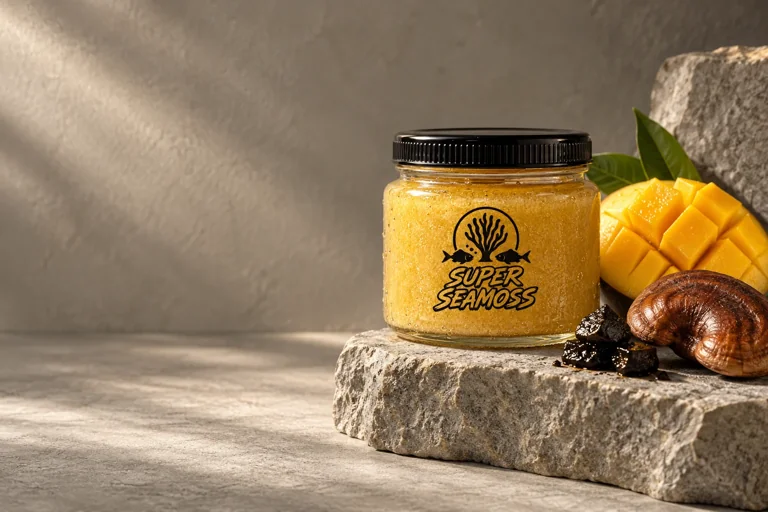
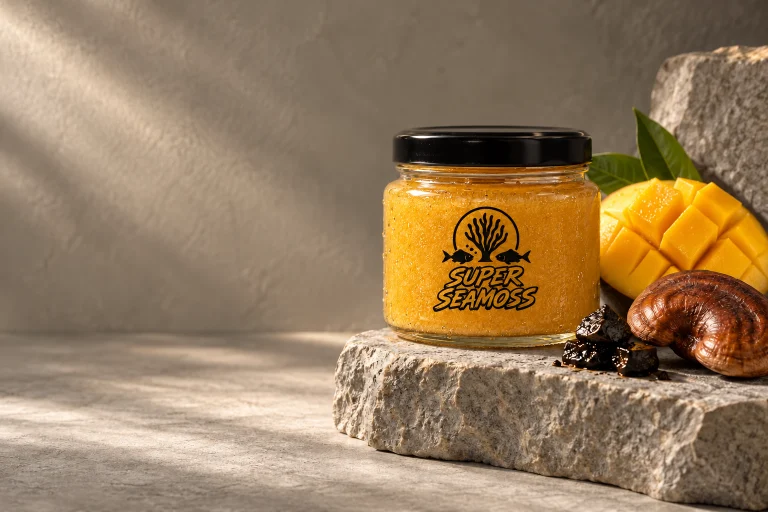
Fix Seamoss ingredient framing and King Strength lid

diff --git a/superseamoss/index.html b/superseamoss/index.html
@@ -25,8 +25,8 @@ setTimeout(() => {
   document.dispatchEvent(new Event('seamoss:load-timeout'));
 }, 6500);
 </script>
-<script src="loading.js?v=mobile2" defer></script><script src="site.js?v=blend-names1" defer></script><script src="jar-scroll.js?v=mobile2" defer></script><script type="module" src="order-options.js?v=image-picker1"></script>
-<link rel="stylesheet" href="blend-preview.css?v=ingredient-preview2">
+<script src="loading.js?v=mobile2" defer></script><script src="site.js?v=feedback-lid2" defer></script><script src="jar-scroll.js?v=mobile2" defer></script><script type="module" src="order-options.js?v=feedback-fit2"></script>
+<link rel="stylesheet" href="blend-preview.css?v=feedback-fit2">
 <link rel="stylesheet" href="blend-picker.css?v=image-picker1">
 </head>
 <body>
@@ -70,7 +70,7 @@ setTimeout(() => {
 <span class="blend-scene-signature" aria-hidden="true">YOUR DAY.<br>YOUR BLEND.</span>
 </article>
 <article class="blend-panel" id="panel-king-strength" aria-labelledby="heading-king-strength">
-<img class="blend-scene" src="assets/blends/king-strength.webp" srcset="assets/blends/king-strength-768.webp 768w, assets/blends/king-strength.webp 1536w" sizes="100vw" alt="Mango sea moss jar with fresh mango and reishi on sculpted stone" width="1536" height="1024" loading="lazy" decoding="async">
+<img class="blend-scene" src="assets/blends/king-strength.webp?v=smooth-lid2" srcset="assets/blends/king-strength-768.webp?v=smooth-lid2 768w, assets/blends/king-strength.webp?v=smooth-lid2 1536w" sizes="100vw" alt="Mango sea moss jar with fresh mango and reishi on sculpted stone" width="1536" height="1024" loading="lazy" decoding="async">
 <div class="blend-shade" aria-hidden="true"></div>
 <div class="blend-panel-copy">
 <p class="blend-focus">Energy &amp; stamina</p>
@@ -167,7 +167,7 @@ setTimeout(() => {
 </div>
 <fieldset class="order-choice order-purchase"><legend>Choose your routine</legend><div class="order-choice-row"><label><input type="radio" name="purchase-type" value="one-off" checked><span>One-off order</span></label><label><input type="radio" name="purchase-type" value="subscription"><span>Subscribe &amp; Save<small>10% off · free delivery · cancel anytime</small></span></label></div></fieldset>
 <div class="order-summary" aria-live="polite" aria-atomic="true"><p id="order-selection">1 × 330ml jar</p><p id="order-blend-summary">Manuka Glow</p><div class="order-price"><s id="order-regular-price" hidden></s><strong id="order-product-price">£25</strong><span id="order-price-unit">for your jars</span></div><p class="order-price-note" id="order-bundle-saving" hidden></p><p class="order-price-note" id="order-subscription-saving" hidden></p><div class="order-totals"><p><span>Chilled UK mainland delivery</span><strong id="order-delivery-price">£9.95</strong></p><p class="order-total"><span id="order-total-label">Order total</span><strong id="order-total-price">£34.95</strong></p></div><p class="order-shipping-note" id="order-shipping-note">Free chilled delivery when your jar subtotal reaches £50.</p><p id="order-schedule" hidden>Billed and dispatched monthly. Cancel anytime. Subscription checkout is being set up.</p></div>
-<p id="order-preview-note">Enquiry preview. Online checkout is being set up. No payment is taken and no subscription starts here.</p>
+<p id="order-preview-note">Enquiry preview. The team will confirm your order and how to pay on Instagram. Online checkout is being set up. No payment is taken and no subscription starts here.</p>
 <div class="order-enquiry"><label for="order-enquiry-text">Your enquiry</label><textarea id="order-enquiry-text" rows="5" readonly>Hi Super Seamoss, I’d like one 330ml Manuka Glow jar. Jars: £25. Chilled UK mainland delivery: £9.95. Total: £34.95. Please confirm availability and dispatch.</textarea><div class="order-actions"><button class="button order-copy" type="button">Copy enquiry</button><a class="button button-dark" href="https://www.instagram.com/super.seamoss/" target="_blank" rel="noopener">Open Instagram</a></div><p class="order-copy-status" role="status">Copy your choices, then send them to the team on Instagram.</p></div>
 </form>
 </div>
@@ -183,7 +183,7 @@ setTimeout(() => {
 </section>
 <section class="experience section-wrap" id="ritual" aria-labelledby="ritual-heading"><div class="experience-heading"><h2 class="display-heading reveal" id="ritual-heading">Your blend.<br>Your questions.<br><span>Let’s talk.</span></h2><div class="experience-intro reveal"><p>Choose your blends and jar size above. Send your priced enquiry to Super Seamoss on Instagram to confirm availability and dispatch.</p><a class="button button-dark" href="https://www.instagram.com/super.seamoss/" target="_blank" rel="noopener">Enquire on Instagram <span aria-hidden="true">+</span></a></div></div><div class="experience-steps"><article class="reveal"><span class="step-number">01</span><h3>Choose your blend.</h3><p>Pick the purpose that fits your day and check what’s in the jar.</p></article><article class="reveal"><span class="step-number">02</span><h3>Confirm the details.</h3><p>Ask about allergens, suitability, prices, availability and delivery.</p></article><article class="reveal"><span class="step-number">03</span><h3>Make it your routine.</h3><p>Follow your jar’s serving and storage guidance. Consistency is the idea.</p></article></div></section>
 <section class="faq-section section-wrap" id="questions" aria-labelledby="faq-heading"><div class="faq-heading reveal"><span class="tiny-label">BEFORE YOU ORDER</span><h2 id="faq-heading">Know your jar.</h2></div><div class="faq-list reveal">
-<details><summary>How do I order?<b aria-hidden="true">+</b></summary><p>Build your mix-and-match order above, then copy your enquiry and send it to Super Seamoss on Instagram. Online checkout is being set up; the team will confirm availability and dispatch.</p></details>
+<details><summary>How do I order?<b aria-hidden="true">+</b></summary><p>Build your mix-and-match order above, then copy your enquiry and send it to Super Seamoss on Instagram. The team will confirm your blends, delivery and how to pay before you place the order. This enquiry does not take payment or start a subscription. Online checkout is being set up.</p></details>
 <details><summary>How much is delivery?<b aria-hidden="true">+</b></summary><p>Chilled next-day delivery to UK mainland is £9.95. Standard orders get free delivery when the jar subtotal is £50 or more, excluding postage. Every subscription includes free chilled delivery, with no minimum spend. Confirm availability and dispatch timing with the team.</p></details>
 <details><summary>Can I subscribe?<b aria-hidden="true">+</b></summary><p>Subscribe &amp; Save gives you 10% off every recurring order, with free chilled UK mainland delivery, cancel anytime, priority dispatch and an occasional subscriber-only flavour. Choose the subscription option in your enquiry. Subscriptions will be billed and dispatched monthly. Subscription checkout is being set up.</p></details>
 <details><summary>What’s inside each blend?<b aria-hidden="true">+</b></summary><p>Open a blend above to see the ingredients featured in its original Instagram post. Ask the team for the full current ingredient and allergen information before ordering.</p></details>

diff --git a/superseamoss/blend-preview.css b/superseamoss/blend-preview.css
@@ -14,12 +14,10 @@
 .blend-preview-ingredients{position:absolute;inset:0;z-index:2;visibility:hidden}
 .artwork-ready .blend-preview-ingredients{visibility:visible}
 .blend-preview-stage:has(.blend-ingredient.is-named) .blend-preview-ingredients{z-index:4}
-.blend-ingredient-anchor{position:absolute;width:21%;aspect-ratio:1;margin-left:-10.5%;margin-top:-10.5%}
+.blend-ingredient-anchor{position:absolute;width:18%;aspect-ratio:1;margin-left:-9%;margin-top:-9%}
 .blend-ingredient{position:relative;display:block;appearance:none;width:100%;height:100%;padding:0;border:0;border-radius:50%;background:none;cursor:help;color:var(--ink);overflow:visible;touch-action:manipulation}
-.blend-ingredient-photo{display:block;width:100%;height:100%;background-repeat:no-repeat;background-size:700% 600%;clip-path:inset(5%);filter:drop-shadow(0 4px 3px #33271b15);transition:transform 160ms cubic-bezier(.16,1,.3,1)}
-.artwork-ready .blend-ingredient-photo{background-image:url('assets/preview/ingredients.webp')}
-.blend-ingredient[data-ingredient=manuka-honey] .blend-ingredient-photo{clip-path:inset(18% 5% 5%)}
-.blend-ingredient[data-ingredient=lemon] .blend-ingredient-photo,.blend-ingredient[data-ingredient=maca] .blend-ingredient-photo,.blend-ingredient[data-ingredient=tongkat-ali] .blend-ingredient-photo{clip-path:inset(12% 5% 5%)}
+.blend-ingredient-photo{display:block;width:100%;height:100%;background-repeat:no-repeat;background-size:contain;background-position:center;filter:drop-shadow(0 4px 3px #33271b15);transition:transform 160ms cubic-bezier(.16,1,.3,1)}
+.artwork-ready .blend-ingredient-photo{background-image:var(--ingredient-image)}
 .blend-ingredient-name{position:absolute;top:100%;left:50%;transform:translate(-50%,3px);opacity:0;visibility:hidden;pointer-events:none;background:#252a20;color:#fffdf8;padding:7px 10px;border-radius:4px;white-space:nowrap;font-size:12px;line-height:1.4;box-shadow:0 4px 12px #23272212;transition:opacity 125ms ease-out,transform 125ms ease-out;z-index:5}
 .blend-ingredient.is-named .blend-ingredient-name{visibility:visible;opacity:1;transform:translate(-50%,0)}
 .blend-ingredient-anchor:has(.is-named){z-index:6}

diff --git a/superseamoss/site.js b/superseamoss/site.js
@@ -111,7 +111,7 @@
   document.addEventListener('keydown',event=> { if(event.key==='Escape'&&navigation.classList.contains('open')){closeMenu();menuButton.focus();} });
   document.querySelectorAll('[data-product]').forEach(button=>button.addEventListener('click',()=> {
     const product=products.find(item=>item.id===button.dataset.product);
-    const image=document.querySelector('#product-dialog-image');image.src='assets/blends/'+product.id+'.webp';image.srcset='assets/blends/'+product.id+'-768.webp 768w, assets/blends/'+product.id+'.webp 1536w';image.sizes='(max-width: 700px) calc(100vw - 24px), 46vw';image.alt='Creative ingredient still life for Super Seamoss '+product.name;
+    const image=document.querySelector('#product-dialog-image');const version=product.id==='king-strength'?'?v=smooth-lid2':'';image.src='assets/blends/'+product.id+'.webp'+version;image.srcset='assets/blends/'+product.id+'-768.webp'+version+' 768w, assets/blends/'+product.id+'.webp'+version+' 1536w';image.sizes='(max-width: 700px) calc(100vw - 24px), 46vw';image.alt='Creative ingredient still life for Super Seamoss '+product.name;
     document.querySelector('#product-dialog-title').textContent=product.name;
     document.querySelector('#product-dialog-description').textContent=product.description;
     document.querySelector('#product-dialog-ingredients').replaceChildren(...product.ingredients.map(ingredient=> { const item=document.createElement('li');item.textContent=ingredient;return item; }));

diff --git a/superseamoss/blend-preview.js b/superseamoss/blend-preview.js
@@ -69,7 +69,8 @@ export function createBlendPreview(form, selects) {
       const photo = document.createElement('span');
       photo.className = 'blend-ingredient-photo';
       photo.setAttribute('aria-hidden', 'true');
-      photo.style.backgroundPosition = spritePosition(ingredient.cell, 7, 6);
+      // Individual contain-sized cutouts avoid cropping or neighbouring sprite fragments.
+      photo.style.setProperty('--ingredient-image', `url("${new URL(`./assets/preview/ingredients-fit/${id}.webp`, import.meta.url).href}")`);
       const label = document.createElement('span');
       label.className = 'blend-ingredient-name';
       label.textContent = ingredient.name;
@@ -177,9 +178,9 @@ export function createBlendPreview(form, selects) {
 
   function loadArtwork() {
     if (loading) return loading;
-    loading = Promise.all(['jars', 'ingredients'].map(async asset => {
+    loading = Promise.all(['jars.webp', ...ingredients.map(item => `ingredients-fit/${item.id}.webp`)].map(async asset => {
       const image = new Image();
-      image.src = new URL(`./assets/preview/${asset}.webp`, import.meta.url).href;
+      image.src = new URL(`./assets/preview/${asset}`, import.meta.url).href;
       await image.decode();
     })).then(() => {
       artworkReady = true;

diff --git a/superseamoss/order-options.js b/superseamoss/order-options.js
@@ -1,5 +1,5 @@
 import { offers, priceOrder, money } from './order-pricing.mjs?v=two-jars50';
-import { createBlendPreview } from './blend-preview.js?v=image-picker1';
+import { createBlendPreview } from './blend-preview.js?v=feedback-fit2';
 import { createBlendPickers } from './blend-picker.js?v=image-picker1';
 
 const form = document.querySelector('.order-planner');
